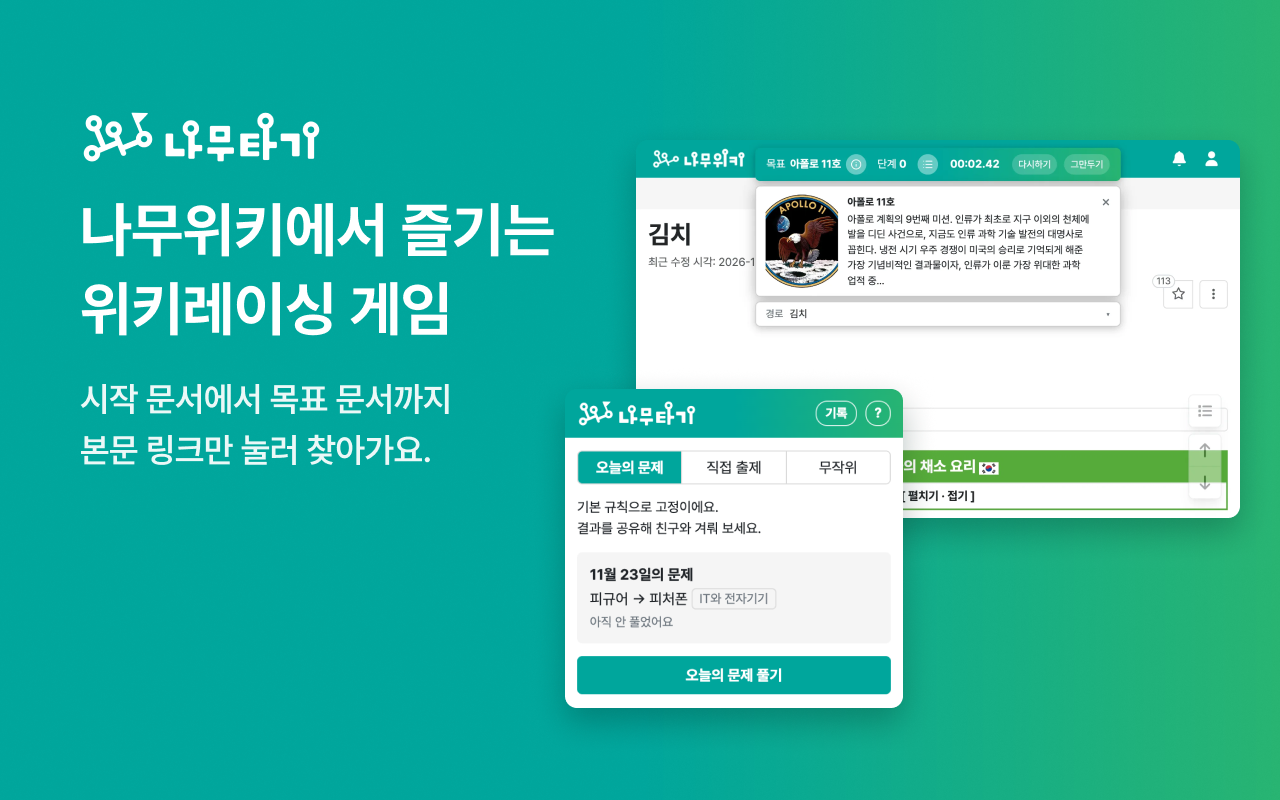
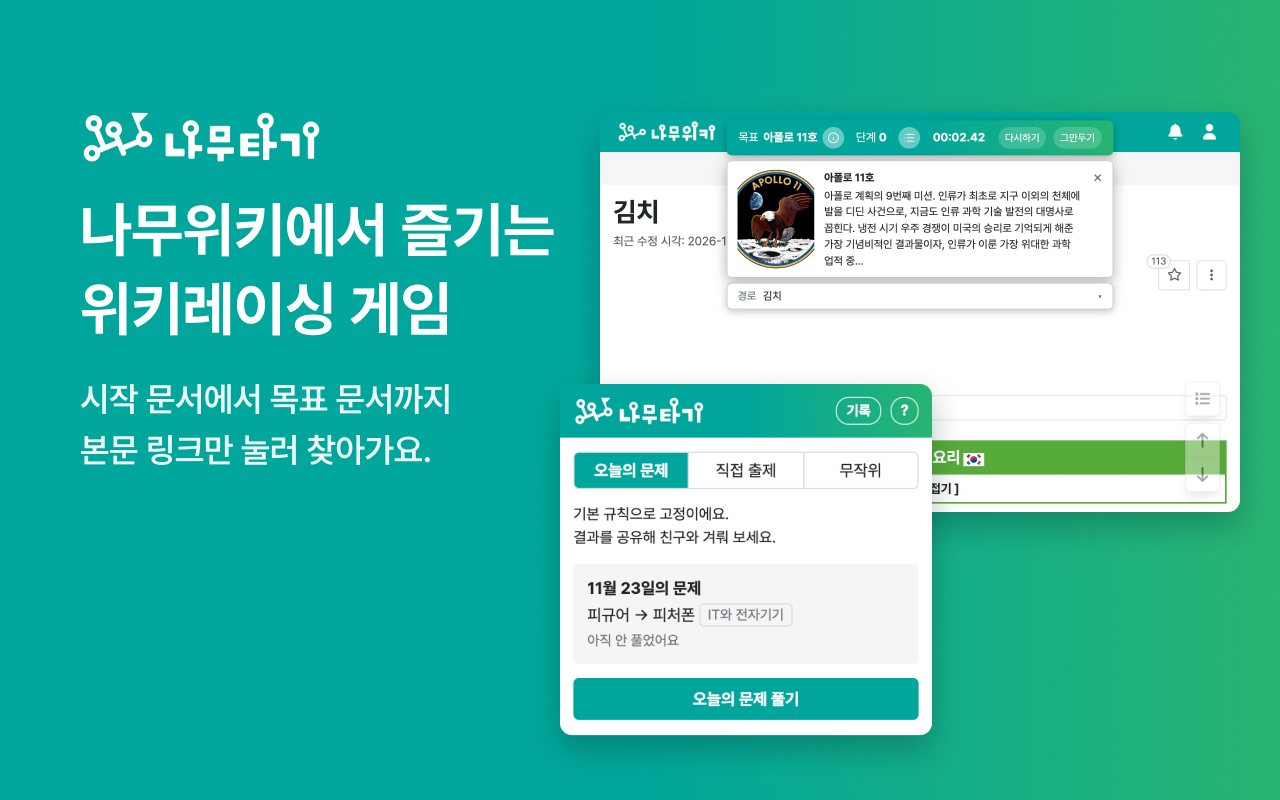
Figma 그림을 키워 다시 내보냄, 랜딩 짧은 캡션을 그림 위로

Changed region(s): [[0.4375, 0.125, 0.9688, 0.9375]]

diff --git a/server/public/index.html b/server/public/index.html
@@ -19,6 +19,7 @@
   .two figure { margin: 0; }
   .pops { display: flex; flex-wrap: wrap; gap: 12px; margin-bottom: 22.5px; }
   .pops figure { margin: 0; width: 280px; max-width: 100%; }
+  figure > figcaption:first-child { margin: 0 0 6px; } /* 짧은 이름 캡션은 그림 위에 둔다 */
   .lead { font-size: 17px; }
   @media (max-width: 720px) { .two { grid-template-columns: 1fr; } }
   @media (max-width: 520px) { .actions .btn { flex: 1; } }
@@ -57,9 +58,9 @@
       <tr><th>무작위</th><td>난이도와 분야를 고르면 목표를 대신 정해 줘요.<br>시작은 나무위키 랜덤 문서예요.</td></tr>
     </table>
     <div class="pops">
-      <figure><picture><source media="(prefers-color-scheme: dark)" srcset="shots/popup-today-dark.webp?v=5"><img src="shots/popup-today-light.webp?v=5" loading="lazy" alt="팝업의 오늘의 문제 탭"></picture><figcaption>오늘의 문제</figcaption></figure>
-      <figure><picture><source media="(prefers-color-scheme: dark)" srcset="shots/popup-custom-dark.webp?v=5"><img src="shots/popup-custom-light.webp?v=5" loading="lazy" alt="팝업의 직접 출제 탭"></picture><figcaption>직접 출제</figcaption></figure>
-      <figure><picture><source media="(prefers-color-scheme: dark)" srcset="shots/popup-random-dark.webp?v=5"><img src="shots/popup-random-light.webp?v=5" loading="lazy" alt="팝업의 무작위 탭과 목표 분야"></picture><figcaption>무작위</figcaption></figure>
+      <figure><figcaption>오늘의 문제</figcaption><picture><source media="(prefers-color-scheme: dark)" srcset="shots/popup-today-dark.webp?v=5"><img src="shots/popup-today-light.webp?v=5" loading="lazy" alt="팝업의 오늘의 문제 탭"></picture></figure>
+      <figure><figcaption>직접 출제</figcaption><picture><source media="(prefers-color-scheme: dark)" srcset="shots/popup-custom-dark.webp?v=5"><img src="shots/popup-custom-light.webp?v=5" loading="lazy" alt="팝업의 직접 출제 탭"></picture></figure>
+      <figure><figcaption>무작위</figcaption><picture><source media="(prefers-color-scheme: dark)" srcset="shots/popup-random-dark.webp?v=5"><img src="shots/popup-random-light.webp?v=5" loading="lazy" alt="팝업의 무작위 탭과 목표 분야"></picture></figure>
     </div>
     <p>나무위키에서 우클릭해서 지금 문서를 시작이나 목표로 바로 넣을 수도 있어요.</p>
   </div>
@@ -79,15 +80,15 @@
   <div>
     <p>도착하면 내 기록이 담긴 도전장 링크를 만들 수 있어요.<br>받은 친구는 같은 문제, 같은 규칙으로 도전해요.<br>시간이 빠른 쪽이 이기고, 같으면 단계가 적은 쪽이 이겨요.<br>상대의 경로는 이겨야 볼 수 있어요.</p>
     <div class="two">
-      <figure><picture><source media="(prefers-color-scheme: dark)" srcset="shots/invite-dark.webp?v=5"><img src="shots/invite-light.webp?v=5" width="960" height="600" loading="lazy" alt="도전장 링크를 열면 뜨는 수락 창"></picture><figcaption>도전장을 받으면 어떤 판인지 보고 도전해요.</figcaption></figure>
-      <figure><picture><source media="(prefers-color-scheme: dark)" srcset="shots/win-dark.webp?v=5"><img src="shots/win-light.webp?v=5" width="960" height="600" loading="lazy" alt="도전장에서 이겼을 때의 결과 카드와 폭죽"></picture><figcaption>이기면 폭죽이 터지고 상대 경로가 열려요.</figcaption></figure>
+      <figure><figcaption>도전장을 받으면 어떤 판인지 보고 도전해요.</figcaption><picture><source media="(prefers-color-scheme: dark)" srcset="shots/invite-dark.webp?v=5"><img src="shots/invite-light.webp?v=5" width="960" height="600" loading="lazy" alt="도전장 링크를 열면 뜨는 수락 창"></picture></figure>
+      <figure><figcaption>이기면 폭죽이 터지고 상대 경로가 열려요.</figcaption><picture><source media="(prefers-color-scheme: dark)" srcset="shots/win-dark.webp?v=5"><img src="shots/win-light.webp?v=5" width="960" height="600" loading="lazy" alt="도전장에서 이겼을 때의 결과 카드와 폭죽"></picture></figure>
     </div>
   </div>
 
   <h2 id="s4"><a href="#toc">4.</a> 내 기록 보기</h2>
   <div>
     <p>도착률, 평균 단계와 시간, 연속 도착을 팝업에서 볼 수 있어요.<br>지난 판의 이동 경로와 문서마다 머문 시간도 남아요.<br>지난 판도 기록에서 도전장으로 보낼 수 있어요.</p>
-    <div class="pops"><figure><picture><source media="(prefers-color-scheme: dark)" srcset="shots/popup-records-dark.webp?v=5"><img src="shots/popup-records-light.webp?v=5" loading="lazy" alt="팝업의 기록 화면. 도착률과 연속 도착, 최근 판이 보인다"></picture><figcaption>기록 화면(예시)</figcaption></figure></div>
+    <div class="pops"><figure><figcaption>기록 화면(예시)</figcaption><picture><source media="(prefers-color-scheme: dark)" srcset="shots/popup-records-dark.webp?v=5"><img src="shots/popup-records-light.webp?v=5" loading="lazy" alt="팝업의 기록 화면. 도착률과 연속 도착, 최근 판이 보인다"></picture></figure></div>
   </div>
 
   <h2 id="s5"><a href="#toc">5.</a> 계정 없이 바로 시작해요</h2>
